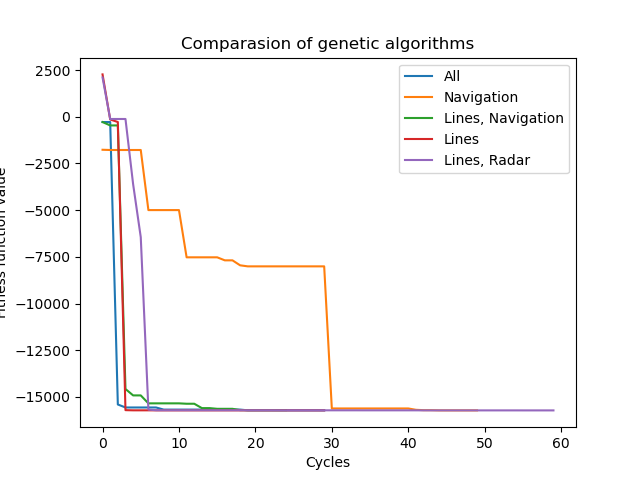
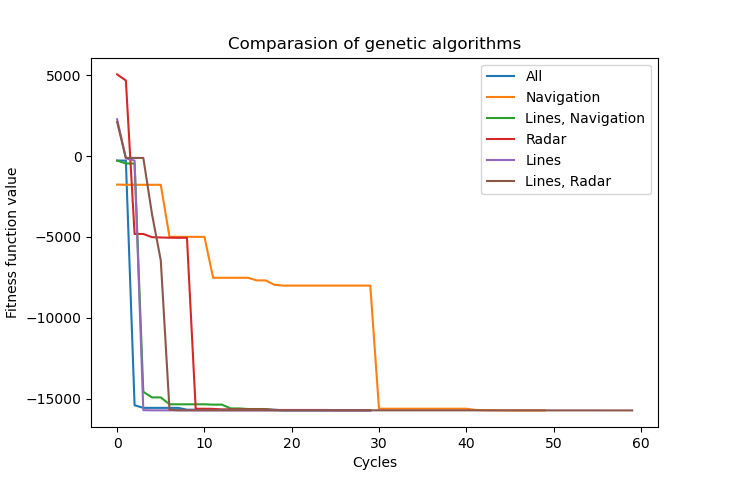
Newones

diff --git a/main.py b/main.py
@@ -14,6 +14,7 @@ class Results(enum.IntEnum):
     All = 2
     Navigation = 5
     Lines_Navigation = 22
+    Radar = 204
     Lines = 300
     Lines_Radar = 301
 
@@ -84,8 +85,8 @@ class Main(QCoreApplication):
 
 
 if __name__ == '__main__':
-    data = Results.Lines_Metrics_Binary_Navigation
-    mode = Mode.showTrainingDefault
+    data = Results.Radar
+    mode = Mode.runTestDefault
     mainApp = Main(data, mode)
     code = mainApp.exec()
     sys.exit(code)

diff --git a/Plotter.py b/Plotter.py
@@ -160,8 +160,9 @@ if __name__ == '__main__':
     # full(res)
     # plotGeneticResults(res)
     # plotPath(res)
-    # plt.show()
+    #
     createGeneticForAllInOne()
     plotPathAllInOne(0)
     plotPathAllInOne(1)
-    #actionForAllResults()
+    actionForAllResults()
+    plt.show()
